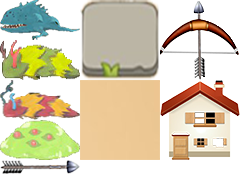
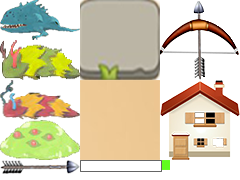
第十二次上传： 1. 修正了地图的规格大小 2. 添加了Hpbar类，并调整了Monster和Headquarterd的show()方法，现在可以显示怪物和基地的血量

Changed region(s): [[0.0, 0.0, 1.0, 1.0], [0.175, 0.0287, 0.2042, 0.0862], [0.0292, 0.0287, 0.0875, 0.0575]]

diff --git a/Tower_Defence/Chapter.cpp b/Tower_Defence/Chapter.cpp
@@ -42,8 +42,8 @@ void Chapter::initChapter(int k)
 void Chapter::createTower(double x, double y)
 {
     Tower newTower("tower");
-    newTower.setX(x/74);
-    newTower.setY(y/74);
+    newTower.setX(x/80);
+    newTower.setY(y/80);
     this->tower_list.push_back(newTower);
 }
 
@@ -101,12 +101,8 @@ void Chapter::check_monster()
             {
                 (*itM).dead();
                 for (vector<Tower>::iterator itT = tower_list.begin(); itT != tower_list.end(); itT++)//itT遍历所有防御塔
-                {
                     //将把这只怪物作为目标的防御塔的target清零
                     if ((*itT).getTarget() == &(*itM)) (*itT).set_target(NULL);
-                    for (vector<Bullet>::iterator itB = (*itT).getBlist()->begin(); itB != (*itT).getBlist()->end(); itB++)//itB遍历所有属于itT的子弹
-                        if ((*itB).getTarget() == &(*itM)) (*itB).set_target(NULL);
-                }
             }
         }
 }
@@ -144,7 +140,7 @@ void Chapter::bullet_move()
         for(vector<Bullet>::iterator itB = (*itT).getBlist()->begin(); itB != (*itT).getBlist()->end(); )
         {
             (*itB).move();
-            if ( (*itB).getTarget() != NULL && dist(*itB, *(*itB).getTarget()) < 0.7 )
+            if ( (*itB).getTarget() != NULL && dist(*itB, *(*itB).getTarget()) < 0.5 )
             {
                 (*itB).getTarget()->be_shooted(Tower::tATK);
                 itB = (*itT).getBlist()->erase(itB);

diff --git a/build-Tower_Defence-Desktop_Qt_5_12_7_MinGW_64_bit-Debug/ui_mainwindow.h b/build-Tower_Defence-Desktop_Qt_5_12_7_MinGW_64_bit-Debug/ui_mainwindow.h
@@ -31,16 +31,16 @@ public:
     {
         if (MainWindow->objectName().isEmpty())
             MainWindow->setObjectName(QString::fromUtf8("MainWindow"));
-        MainWindow->resize(958, 590);
+        MainWindow->resize(1040, 640);
         centralwidget = new QWidget(MainWindow);
         centralwidget->setObjectName(QString::fromUtf8("centralwidget"));
         Start = new QPushButton(centralwidget);
         Start->setObjectName(QString::fromUtf8("Start"));
-        Start->setGeometry(QRect(390, 190, 171, 101));
+        Start->setGeometry(QRect(430, 220, 171, 101));
         MainWindow->setCentralWidget(centralwidget);
         menubar = new QMenuBar(MainWindow);
         menubar->setObjectName(QString::fromUtf8("menubar"));
-        menubar->setGeometry(QRect(0, 0, 958, 28));
+        menubar->setGeometry(QRect(0, 0, 1040, 28));
         MainWindow->setMenuBar(menubar);
         statusbar = new QStatusBar(MainWindow);
         statusbar->setObjectName(QString::fromUtf8("statusbar"));

diff --git a/Tower_Defence/main.cpp b/Tower_Defence/main.cpp
@@ -14,7 +14,7 @@ int main(int argc, char *argv[])
 /*
 计划：
 0. 判定成功与失败 (finished)
-1. 显示血条（基地、怪物）
+1. 显示血条（基地、怪物）(finished)
 2. 通过文件读取关卡信息 (还有文件路径的问题未解决)
        地图路径
        出怪的数量与时间
@@ -23,11 +23,10 @@ int main(int argc, char *argv[])
                     以下n行 xi yi 表示路径
                     num（怪物数量）
                     以下num行 ti 表示每个怪物出现的时间
-        需要将monster_list分为未出怪和已出怪
 3. 防御塔升级系统
 4. 多关卡切换
 5. 更加美观的UI
-6. 修正地图的大小规格
+6. 修正地图的大小规格(finished)
 7. 更丰富的防御塔与怪物
 
 

diff --git a/Tower_Defence/Icon.h b/Tower_Defence/Icon.h
@@ -11,16 +11,16 @@ class Icon
         static map<string, Icon> Icon_Set;
         static Icon findIcon(string type);
 
-        Icon(string type, int x, int y, double w, double h);
-        int getScrX() const {return _scrX;};
-        int getScrY() const {return _scrY;};
+        Icon(string type, double x, double y, double w, double h);
+        double getScrX() const {return _scrX;};
+        double getScrY() const {return _scrY;};
         double getHeight() const {return _height;};
         double getWidth() const {return _width;};
         string getType() const {return this->_typeName;};
 
     protected:
         string _typeName;
-        int _scrX, _scrY;
+        double _scrX, _scrY;
         double _height, _width;
 };
 

diff --git a/Tower_Defence/Icon.cpp b/Tower_Defence/Icon.cpp
@@ -7,12 +7,14 @@ pair<string, Icon> pairArr[] =
     make_pair("tower", Icon("tower", 4, 0, 2, 2)),
     make_pair("monster", Icon("monster", 0, 0, 2, 1)),
     make_pair("headquarter", Icon("Headquarter",4, 2, 2, 2)),
-    make_pair("bullet", Icon("bullet", 0, 4, 2, 0.35))
+    make_pair("bullet", Icon("bullet", 0, 4, 2, 0.35)),
+    make_pair("hpBarFrame", Icon("hpBarFrame", 2, 4, 2.05, 0.3)),
+    make_pair("hpGreen", Icon("hpGreen", 4.05, 4, 0.2, 0.25))
 };
 
 map<string, Icon> Icon::Icon_Set(pairArr, pairArr+sizeof(pairArr)/sizeof(pairArr[0]));
 
-Icon::Icon(string type, int x, int y, double w, double h)
+Icon::Icon(string type, double x, double y, double w, double h)
 {
     this->_typeName = type;
     this->_scrX = x;

diff --git a/Tower_Defence/Monster.cpp b/Tower_Defence/Monster.cpp
@@ -1,9 +1,9 @@
 #include "Monster.h"
 #include <cmath>
 int Monster::mATK = 10;
-double Monster::mSPEED = 0.1;
+double Monster::mSPEED = 0.05;
 
-Monster::Monster(string type, double x, double y, double st) : Object(type)
+Monster::Monster(string type, double x, double y, double st) : Object(type), _hpBar()
 {
     this->_hp = 100;
     this->_pos = 0;
@@ -32,8 +32,9 @@ void Monster::show(QPainter *painter)
 {
     if (if_placed == true && _alive == true)
     {
-        double GS = 74;
-        painter->drawImage(this->_x * GS, this->_y * GS, this->_pic);
+        double GS = 2 * Icon::Grid_Size;
+        painter->drawImage(_x * GS, (_y+0.2) * GS, _pic);
+        _hpBar.show(painter, _hp, _x, _y);
     }
 }
 

diff --git a/Tower_Defence/Bullet.cpp b/Tower_Defence/Bullet.cpp
@@ -11,7 +11,7 @@ Bullet::Bullet(string type, double x, double y, Monster * t):Object(type)
 
 void Bullet::move()
 {
-    if (_target != NULL)
+    if (_target != NULL && (*_target).alive())
     {
         double deltaX = (*_target).getX() - this->getX();
         double deltaY = (*_target).getY() - this->getY();
@@ -25,7 +25,7 @@ void Bullet::move()
 
 void Bullet::show(QPainter *painter)
 {
-    double GS = 74;
+    double GS = 2 * Icon::Grid_Size;
     painter->resetTransform();
     double centerX = this->_x * GS + this->getWidth() * Icon::Grid_Size/2;
     double centerY = this->_y * GS + this->getHeight() * Icon::Grid_Size/2;

diff --git a/Tower_Defence/mainwindow.cpp b/Tower_Defence/mainwindow.cpp
@@ -34,7 +34,7 @@ void MainWindow::move()
     _chapter.place_monster();
     _chapter.monster_move();
     _chapter.tower_detect();
-   // _chapter.tower_shoot();
+    _chapter.tower_shoot();
     _chapter.bullet_move();
     _chapter.check_monster();
     _chapter.check_status();
@@ -46,7 +46,7 @@ void MainWindow::on_Start_clicked()
 {
     this->_chapter.initChapter(1);
     timer->start(100);
-    timer->setInterval(40);
+    timer->setInterval(20);
 }
 
 void MainWindow::mousePressEvent(QMouseEvent *e)

diff --git a/Tower_Defence/Hpbar.cpp b/Tower_Defence/Hpbar.cpp
@@ -1,0 +1,13 @@
+#include "Hpbar.h"
+
+Hpbar::Hpbar() : _hpBarFrame("hpBarFrame"), _hpGreen("hpGreen") {}
+
+void Hpbar::show(QPainter *painter, int hp, double x, double y)
+{
+    double deltaX = 0.1;
+    int num = hp / 10;
+    double GS = 2 * Icon::Grid_Size;
+    painter->drawImage((x - 0.07) * GS, (y - 0.2) * GS, _hpBarFrame.getPic());
+    for (int i=0; i<num; i++)
+       painter->drawImage((x + i*deltaX - 0.06) * GS, (y - 0.18) * GS, _hpGreen.getPic());
+}

diff --git a/Tower_Defence/Tower.cpp b/Tower_Defence/Tower.cpp
@@ -28,7 +28,7 @@ void Tower::show(QPainter *painter)
         this->_angle = atan( deltaY/deltaX ) * 180 / 3.1415 + 90;
         if (deltaX < 0) this->_angle += 180;
     }
-    double GS = 74;
+    double GS = 2 * Icon::Grid_Size;
     painter->resetTransform();
     double centerX = this->_x * GS + this->getWidth() * Icon::Grid_Size/2;
     double centerY = this->_y * GS + this->getHeight() * Icon::Grid_Size/2;

diff --git a/Tower_Defence/Object.cpp b/Tower_Defence/Object.cpp
@@ -1,6 +1,8 @@
 #include "Object.h"
 #include <cmath>
 
+
+
 Object::Object(string type) : _ic(Icon::Icon_Set.find(type)->second)
 {
     QImage all;
@@ -11,7 +13,7 @@ Object::Object(string type) : _ic(Icon::Icon_Set.find(type)->second)
 
 void Object::show(QPainter *painter)
 {
-    double GS = 74;
+    double GS = 2 * Icon::Grid_Size;
     painter->drawImage(this->_x * GS, this->_y * GS, this->_pic);
 }
 

diff --git a/Tower_Defence/Headquarter.cpp b/Tower_Defence/Headquarter.cpp
@@ -1,12 +1,13 @@
 #include "Headquarter.h"
 
-Headquarter::Headquarter(string type) : Object(type)
+Headquarter::Headquarter(string type) : Object(type), _hpBar()
 {
     this->_hp = 100;
 }
 
 void Headquarter::show(QPainter *painter)
 {
-    double GS = 74;
+    double GS = 2 * Icon::Grid_Size;
     painter->drawImage(this->_x * GS, this->_y * GS, this->_pic);
+    _hpBar.show(painter, _hp, _x, _y);
 }
